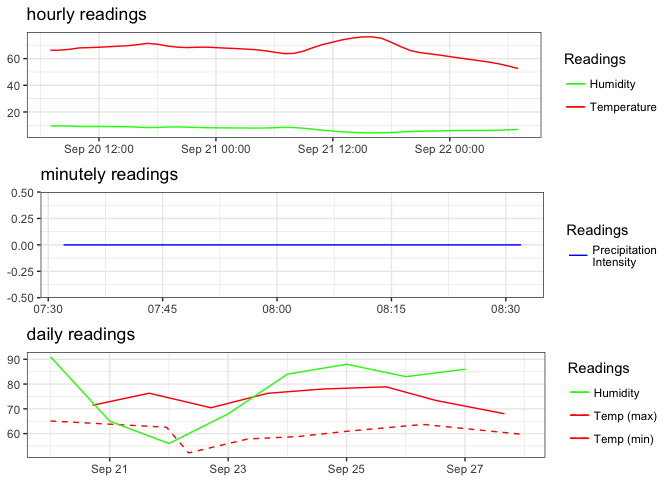
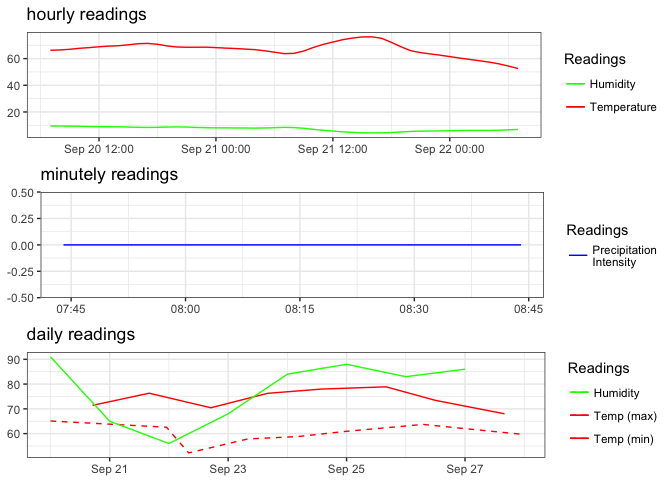
removed README from CRAN submission

diff --git a/README.md b/README.md
@@ -51,7 +51,7 @@ print(now)
     ## minutely 
     ## ======================================================================================================================== 
     ## 'data.frame':    61 obs. of  3 variables:
-    ##  $ time             : POSIXct, format: "2017-09-20 07:32:00" "2017-09-20 07:33:00" "2017-09-20 07:34:00" "2017-09-20 07:35:00" ...
+    ##  $ time             : POSIXct, format: "2017-09-20 07:44:00" "2017-09-20 07:45:00" "2017-09-20 07:46:00" "2017-09-20 07:47:00" ...
     ##  $ precipIntensity  : int  0 0 0 0 0 0 0 0 0 0 ...
     ##  $ precipProbability: int  0 0 0 0 0 0 0 0 0 0 ...
     ## NULL
@@ -62,20 +62,20 @@ print(now)
     ##  $ time               : POSIXct, format: "2017-09-20 07:00:00" "2017-09-20 08:00:00" "2017-09-20 09:00:00" "2017-09-20 10:00:00" ...
     ##  $ summary            : chr  "Overcast" "Overcast" "Overcast" "Overcast" ...
     ##  $ icon               : chr  "cloudy" "cloudy" "cloudy" "cloudy" ...
-    ##  $ precipIntensity    : num  0.0016 0.0001 0.0029 0.0042 0.0046 0.0064 0.0064 0.0073 0.0061 0.0019 ...
-    ##  $ precipProbability  : num  0.05 0.06 0.08 0.1 0.11 0.13 0.12 0.12 0.11 0.06 ...
+    ##  $ precipIntensity    : num  0.0015 0.0006 0.003 0.0046 0.005 0.0066 0.007 0.0073 0.0046 0.0016 ...
+    ##  $ precipProbability  : num  0.05 0.07 0.09 0.11 0.11 0.12 0.11 0.11 0.08 0.05 ...
     ##  $ precipType         : chr  "rain" "rain" "rain" "rain" ...
-    ##  $ temperature        : num  66.3 66.4 67 68.1 68.2 ...
-    ##  $ apparentTemperature: num  67.1 67.2 67.8 68.8 69 ...
-    ##  $ dewPoint           : num  64.9 65.1 65.3 65.4 65.5 ...
-    ##  $ humidity           : num  0.95 0.96 0.94 0.91 0.91 0.91 0.9 0.9 0.89 0.86 ...
-    ##  $ pressure           : num  1015 1014 1014 1014 1013 ...
-    ##  $ windSpeed          : num  7.14 8.11 9.41 10.66 11.16 ...
-    ##  $ windGust           : num  15.8 18.3 24.8 28.1 27.3 ...
-    ##  $ windBearing        : int  30 33 33 37 34 31 31 29 33 26 ...
-    ##  $ cloudCover         : num  1 1 0.99 0.99 0.99 0.99 1 1 1 1 ...
+    ##  $ temperature        : num  66.3 66.5 67 67.7 68.3 ...
+    ##  $ apparentTemperature: num  67.1 67.3 67.8 68.6 69.1 ...
+    ##  $ dewPoint           : num  64.9 65 65.2 65.5 65.6 ...
+    ##  $ humidity           : num  0.95 0.95 0.94 0.93 0.91 0.9 0.89 0.89 0.87 0.85 ...
+    ##  $ pressure           : num  1015 1015 1014 1013 1013 ...
+    ##  $ windSpeed          : num  7.16 8.06 9.66 10.74 11.26 ...
+    ##  $ windGust           : num  15.7 18.5 24.5 28.7 29.1 ...
+    ##  $ windBearing        : int  29 31 32 34 35 35 34 29 29 31 ...
+    ##  $ cloudCover         : num  1 1 1 0.99 1 0.97 0.9 0.99 1 1 ...
     ##  $ uvIndex            : int  0 0 1 2 2 3 3 2 2 1 ...
-    ##  $ visibility         : num  8.49 8.5 8.45 8.55 8.75 9.18 9.87 10 10 10 ...
+    ##  $ visibility         : num  8.49 8.42 8.41 8.38 8.54 9.23 10 10 10 10 ...
     ##  $ ozone              : num  266 267 267 267 267 ...
     ## NULL
     ## 
@@ -83,7 +83,7 @@ print(now)
     ## ======================================================================================================================== 
     ## 'data.frame':    8 obs. of  39 variables:
     ##  $ time                       : POSIXct, format: "2017-09-20" "2017-09-21" "2017-09-22" "2017-09-23" ...
-    ##  $ summary                    : chr  "Light rain in the morning and afternoon." "Mostly cloudy throughout the day." "Partly cloudy throughout the day." "Mostly cloudy until evening." ...
+    ##  $ summary                    : chr  "Light rain until afternoon." "Mostly cloudy throughout the day." "Partly cloudy throughout the day." "Mostly cloudy until evening." ...
     ##  $ icon                       : chr  "rain" "partly-cloudy-day" "partly-cloudy-day" "partly-cloudy-day" ...
     ##  $ sunriseTime                : POSIXct, format: "2017-09-20 06:29:59" "2017-09-21 06:31:05" "2017-09-22 06:32:11" "2017-09-23 06:33:17" ...
     ##  $ sunsetTime                 : POSIXct, format: "2017-09-20 18:46:17" "2017-09-21 18:44:28" "2017-09-22 18:42:38" "2017-09-23 18:40:48" ...
@@ -101,17 +101,17 @@ print(now)
     ##  $ apparentTemperatureHighTime: int  1505941200 1506024000 1506114000 1506196800 1506276000 1506369600 1506441600 1506542400
     ##  $ apparentTemperatureLow     : num  63.8 52.2 57.9 58.9 61.4 ...
     ##  $ apparentTemperatureLowTime : int  1505991600 1506081600 1506168000 1506240000 1506312000 1506423600 1506513600 1506567600
-    ##  $ dewPoint                   : num  64.9 55.4 45.3 53.5 61.1 ...
+    ##  $ dewPoint                   : num  65 55.4 45.3 53.5 61.1 ...
     ##  $ humidity                   : num  0.91 0.65 0.56 0.68 0.84 0.88 0.83 0.86
     ##  $ pressure                   : num  1014 1017 1020 1018 1016 ...
-    ##  $ windSpeed                  : num  8.75 10.68 10.53 7.22 2.42 ...
+    ##  $ windSpeed                  : num  8.8 10.68 10.53 7.22 2.42 ...
     ##  $ windGust                   : num  30 30.2 30 26.8 8.8 ...
     ##  $ windGustTime               : int  1505962800 1505966400 1506081600 1506139200 1506286800 1506380400 1506481200 1506513600
-    ##  $ windBearing                : int  28 24 31 33 61 78 76 54
+    ##  $ windBearing                : int  29 24 31 33 61 78 76 54
     ##  $ cloudCover                 : num  0.99 0.86 0.62 0.52 0.12 0.51 0.97 0.94
     ##  $ uvIndex                    : int  3 3 4 3 5 3 3 3
     ##  $ uvIndexTime                : int  1505923200 1506006000 1506096000 1506182400 1506268800 1506351600 1506441600 1506528000
-    ##  $ visibility                 : num  9.47 10 10 10 NA NA NA NA
+    ##  $ visibility                 : num  9.28 10 10 10 NA NA NA NA
     ##  $ ozone                      : num  265 265 262 261 255 ...
     ##  $ temperatureMin             : num  65.1 62.6 52.2 57.9 58.8 ...
     ##  $ temperatureMinTime         : POSIXct, format: "2017-09-20 00:00:00" "2017-09-21 23:00:00" "2017-09-22 08:00:00" "2017-09-23 08:00:00" ...
@@ -126,24 +126,24 @@ print(now)
     ## currently 
     ## ======================================================================================================================== 
     ## 'data.frame':    1 obs. of  19 variables:
-    ##  $ time                : POSIXct, format: "2017-09-20 07:32:28"
+    ##  $ time                : POSIXct, format: "2017-09-20 07:44:50"
     ##  $ summary             : chr "Overcast"
     ##  $ icon                : chr "cloudy"
-    ##  $ nearestStormDistance: int 8
-    ##  $ nearestStormBearing : int 100
+    ##  $ nearestStormDistance: int 20
+    ##  $ nearestStormBearing : int 247
     ##  $ precipIntensity     : int 0
     ##  $ precipProbability   : int 0
-    ##  $ temperature         : num 66.4
-    ##  $ apparentTemperature : num 67.2
-    ##  $ dewPoint            : num 65
+    ##  $ temperature         : num 66.5
+    ##  $ apparentTemperature : num 67.3
+    ##  $ dewPoint            : num 65.1
     ##  $ humidity            : num 0.95
     ##  $ pressure            : num 1015
-    ##  $ windSpeed           : num 7.66
-    ##  $ windGust            : num 17.1
-    ##  $ windBearing         : int 32
+    ##  $ windSpeed           : num 7.83
+    ##  $ windGust            : num 17.8
+    ##  $ windBearing         : int 30
     ##  $ cloudCover          : int 1
     ##  $ uvIndex             : int 0
-    ##  $ visibility          : num 8.5
+    ##  $ visibility          : num 8.44
     ##  $ ozone               : num 266
     ## NULL
 
@@ -418,7 +418,7 @@ bigger_list$Maine
 print(sprintf("You have used %s API calls.", then$`x-forecast-api-calls`))
 ```
 
-    ## [1] "You have used 314 API calls."
+    ## [1] "You have used 356 API calls."
 
 ``` r
 plot(now)
@@ -444,7 +444,7 @@ library(testthat)
 date()
 ```
 
-    ## [1] "Wed Sep 20 07:32:34 2017"
+    ## [1] "Wed Sep 20 07:44:56 2017"
 
 ``` r
 test_dir("tests/")

diff --git a/cran-comments.md b/cran-comments.md
@@ -16,6 +16,11 @@ None
 
 ##
 
+2x the autobuild complained abt missing pngs that were there
+when the CRAN checks were performed on other systems.
+
+I've removed the README + associated files to avoid this.
+
 Removed the dplyr dependency and made date parameters more 
 flexible. Tests and examples do not run on CRAN because they
 require an API key. Tests run on Travis and Appveyor.
